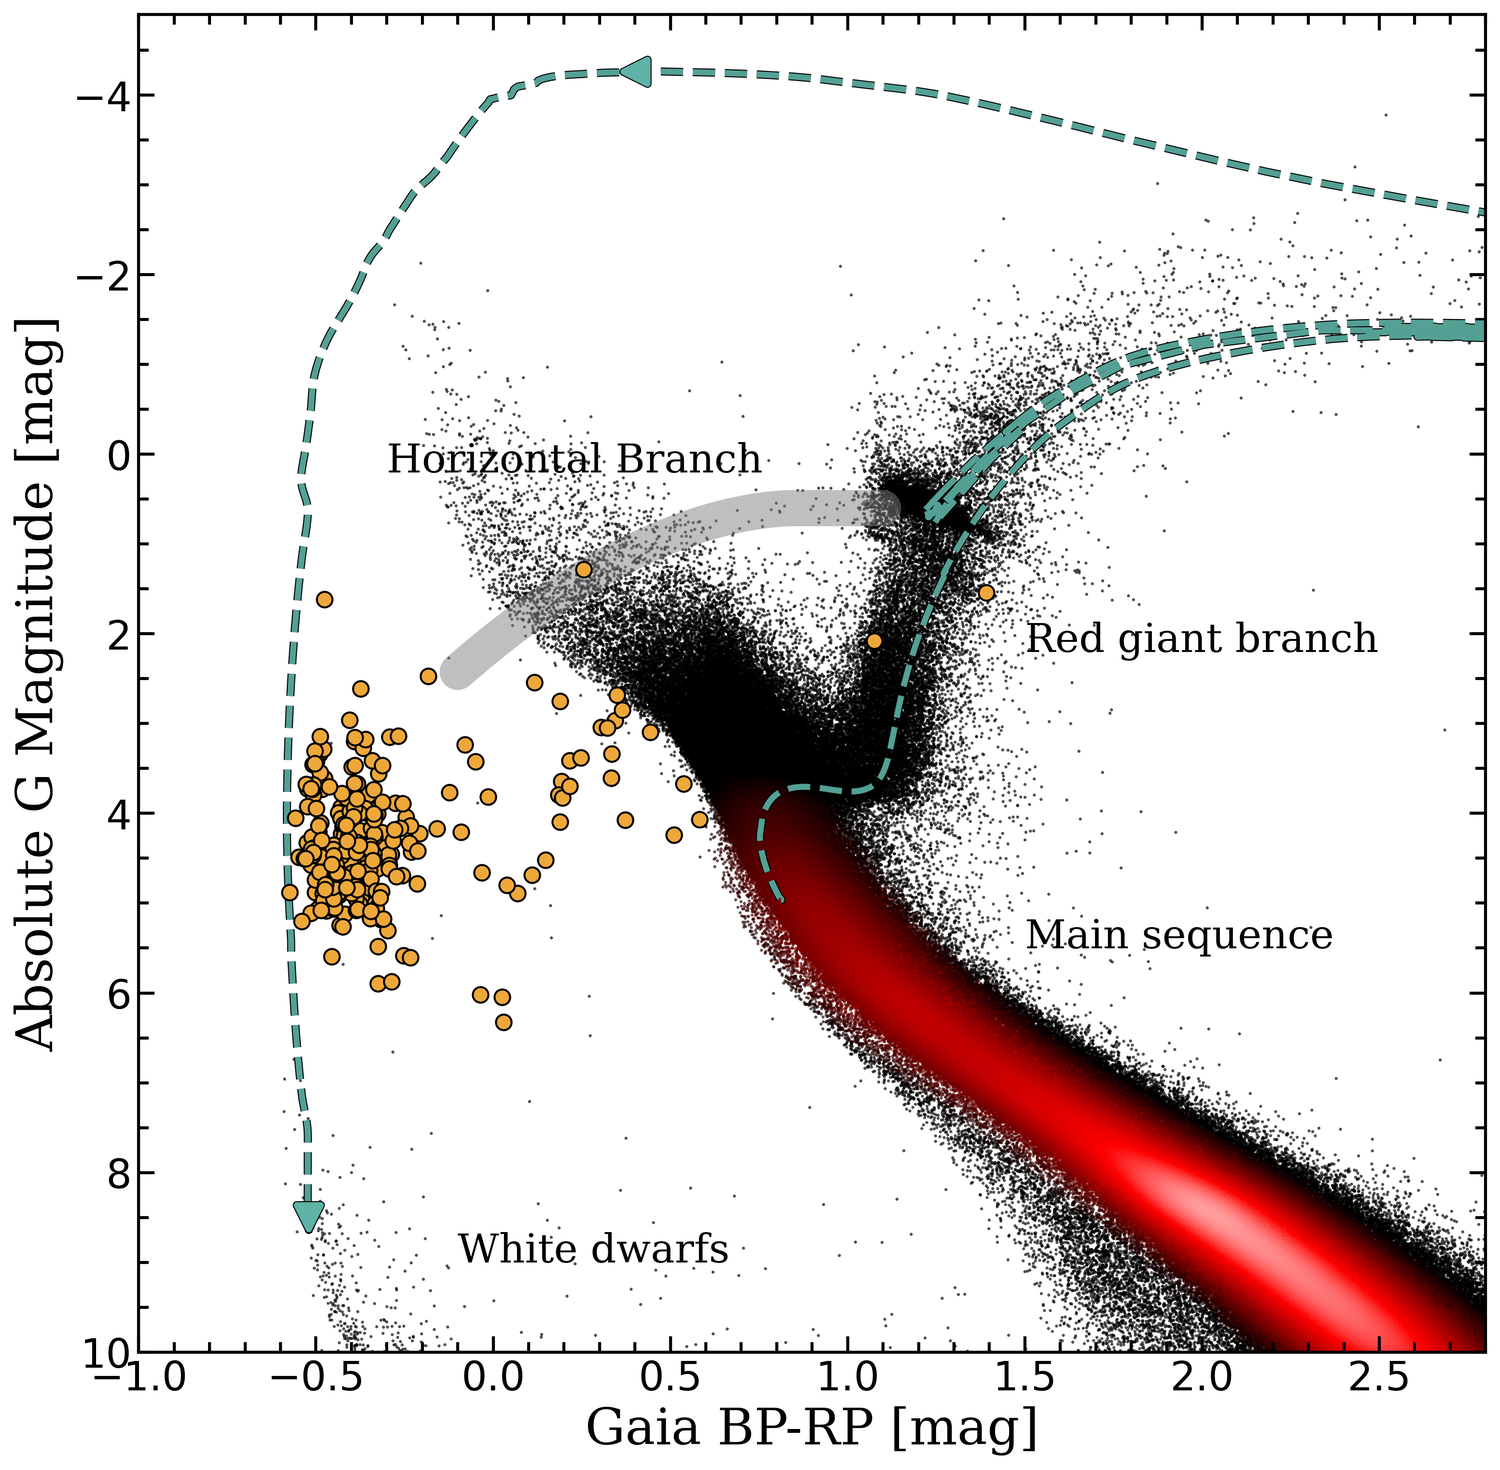
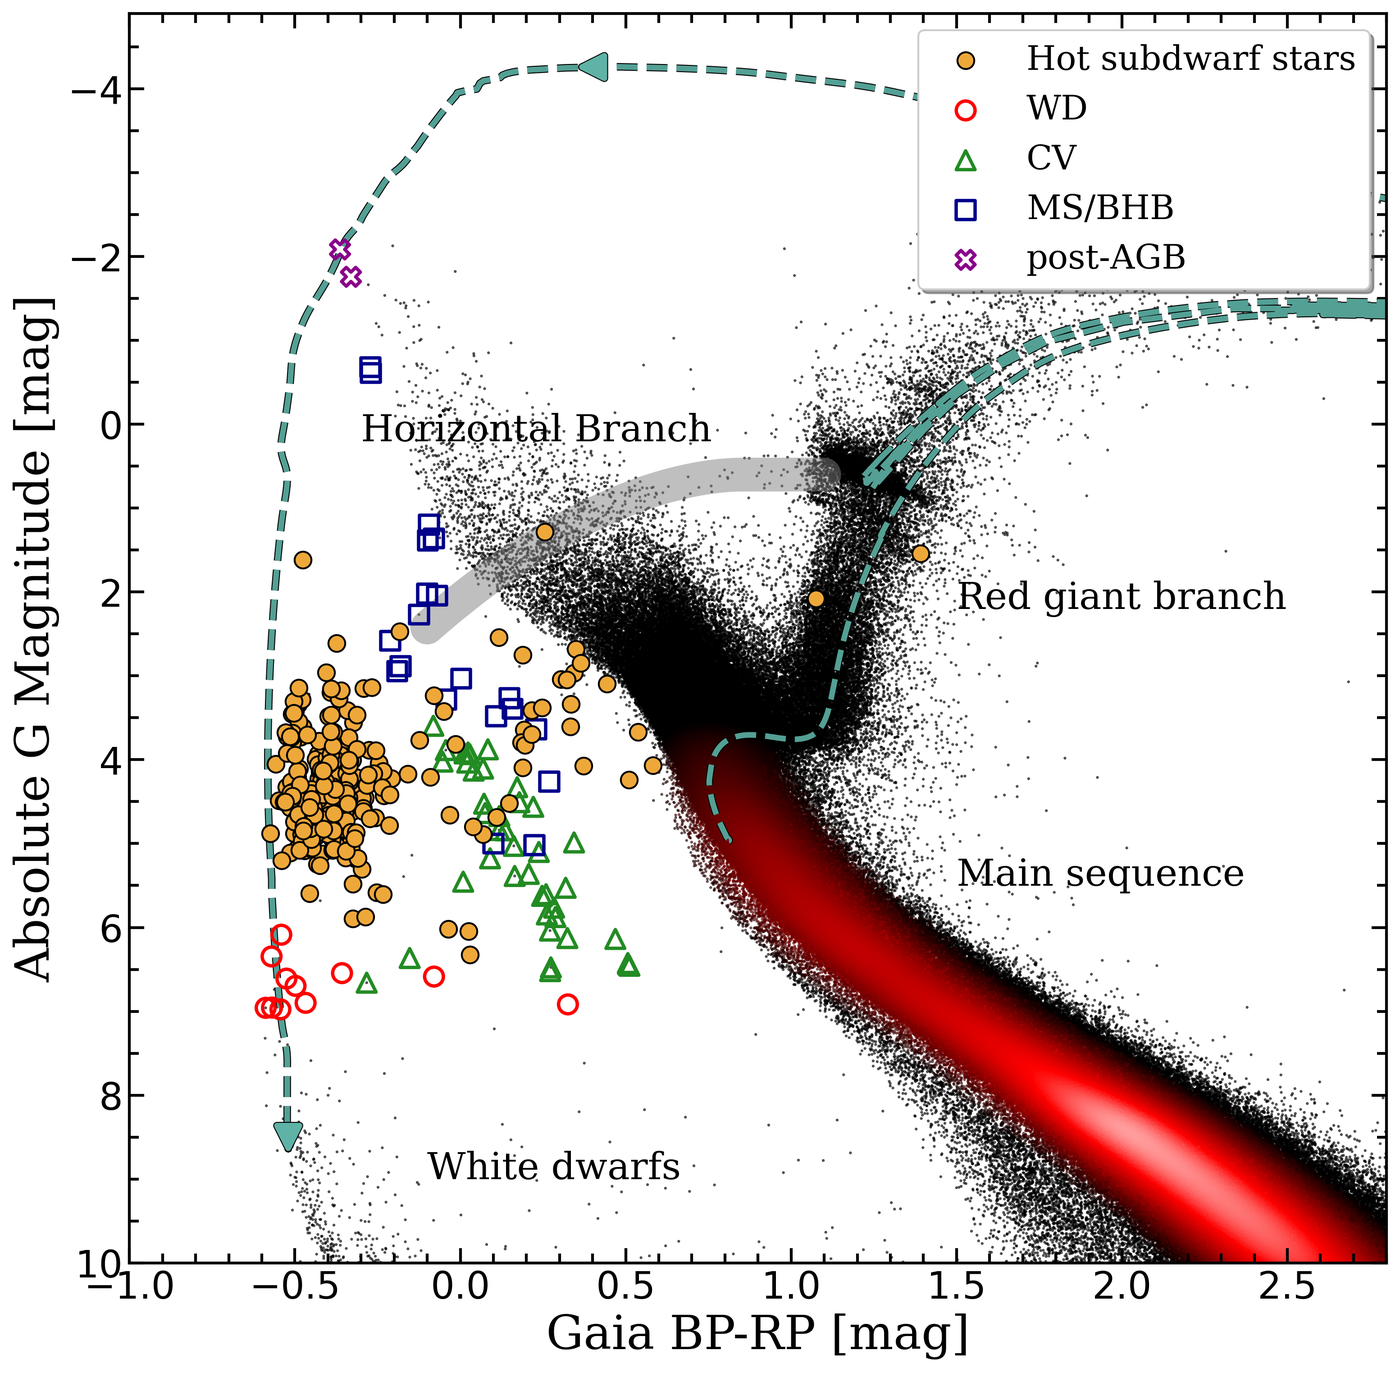
Spectrum rule becomes a real sdB spectrum, newer HRD, contact alignment
- Spectrum thickened to 7px and rebuilt as 27 absorption lines that fade in
  and out at their true wavelengths: Balmer broadest, then He I, He II, metals
- Rebuilt web HRD from the updated Gaia_HRD.png placed in the site directory
- Contact and teaching rows now share a font and line box so labels and values
  align on the same baseline
- Removed the Vilnius reference from contact and About me

diff --git a/style.css b/style.css
@@ -183,24 +183,42 @@ a:hover { color: var(--sdb-lift); }
   transform: translateX(-50%);
 }
 
-/* continuum + absorption lines, drawn entirely in CSS */
+/* continuum plus absorption lines of a hot subdwarf, drawn entirely in CSS.
+   Wavelength 3900-7000 A maps linearly to 0-100% width. Balmer lines are the
+   widest because they are pressure broadened at log g around 5.5, then He I,
+   He II, and sharp metal lines. */
 .spectrum {
-  height: 3px;
+  height: 7px;
   background-image:
-    repeating-linear-gradient(90deg,
-      rgba(10, 14, 22, 0.55) 0 1px,
-      transparent 1px 23px),
-    repeating-linear-gradient(90deg,
-      rgba(10, 14, 22, 0.3) 0 1px,
-      transparent 1px 7px),
-    linear-gradient(90deg,
-      var(--sdb) 0%,
-      var(--sdb-lift) 22%,
-      #9fb6e8 44%,
-      #e8e2d2 60%,
-      #e0a858 80%,
-      var(--companion) 100%);
-  opacity: 0.9;
+    radial-gradient(ellipse 1.097% 100% at 85.897% 50%, rgba(12,16,26,0.62) 0%, rgba(12,16,26,0.260) 45%, rgba(12,16,26,0) 100%),
+    radial-gradient(ellipse 1.097% 100% at 31.010% 50%, rgba(12,16,26,0.7) 0%, rgba(12,16,26,0.294) 45%, rgba(12,16,26,0) 100%),
+    radial-gradient(ellipse 1.097% 100% at 14.210% 50%, rgba(12,16,26,0.72) 0%, rgba(12,16,26,0.302) 45%, rgba(12,16,26,0) 100%),
+    radial-gradient(ellipse 1.097% 100% at 6.506% 50%, rgba(12,16,26,0.7) 0%, rgba(12,16,26,0.294) 45%, rgba(12,16,26,0) 100%),
+    radial-gradient(ellipse 1.097% 100% at 2.261% 50%, rgba(12,16,26,0.62) 0%, rgba(12,16,26,0.260) 45%, rgba(12,16,26,0) 100%),
+    radial-gradient(ellipse 0.387% 100% at 18.435% 50%, rgba(12,16,26,0.34) 0%, rgba(12,16,26,0.143) 45%, rgba(12,16,26,0) 100%),
+    radial-gradient(ellipse 0.387% 100% at 15.739% 50%, rgba(12,16,26,0.34) 0%, rgba(12,16,26,0.143) 45%, rgba(12,16,26,0) 100%),
+    radial-gradient(ellipse 0.387% 100% at 4.071% 50%, rgba(12,16,26,0.34) 0%, rgba(12,16,26,0.143) 45%, rgba(12,16,26,0) 100%),
+    radial-gradient(ellipse 0.387% 100% at 32.965% 50%, rgba(12,16,26,0.34) 0%, rgba(12,16,26,0.143) 45%, rgba(12,16,26,0) 100%),
+    radial-gradient(ellipse 0.387% 100% at 35.990% 50%, rgba(12,16,26,0.34) 0%, rgba(12,16,26,0.143) 45%, rgba(12,16,26,0) 100%),
+    radial-gradient(ellipse 0.387% 100% at 63.729% 50%, rgba(12,16,26,0.34) 0%, rgba(12,16,26,0.143) 45%, rgba(12,16,26,0) 100%),
+    radial-gradient(ellipse 0.387% 100% at 89.619% 50%, rgba(12,16,26,0.34) 0%, rgba(12,16,26,0.143) 45%, rgba(12,16,26,0) 100%),
+    radial-gradient(ellipse 0.387% 100% at 7.865% 50%, rgba(12,16,26,0.34) 0%, rgba(12,16,26,0.143) 45%, rgba(12,16,26,0) 100%),
+    radial-gradient(ellipse 0.387% 100% at 26.229% 50%, rgba(12,16,26,0.34) 0%, rgba(12,16,26,0.143) 45%, rgba(12,16,26,0) 100%),
+    radial-gradient(ellipse 0.323% 100% at 25.345% 50%, rgba(12,16,26,0.28) 0%, rgba(12,16,26,0.118) 45%, rgba(12,16,26,0) 100%),
+    radial-gradient(ellipse 0.323% 100% at 48.758% 50%, rgba(12,16,26,0.28) 0%, rgba(12,16,26,0.118) 45%, rgba(12,16,26,0) 100%),
+    radial-gradient(ellipse 0.323% 100% at 20.697% 50%, rgba(12,16,26,0.28) 0%, rgba(12,16,26,0.118) 45%, rgba(12,16,26,0) 100%),
+    radial-gradient(ellipse 0.161% 100% at 18.748% 50%, rgba(12,16,26,0.2) 0%, rgba(12,16,26,0.084) 45%, rgba(12,16,26,0) 100%),
+    radial-gradient(ellipse 0.161% 100% at 21.052% 50%, rgba(12,16,26,0.2) 0%, rgba(12,16,26,0.084) 45%, rgba(12,16,26,0) 100%),
+    radial-gradient(ellipse 0.161% 100% at 7.358% 50%, rgba(12,16,26,0.2) 0%, rgba(12,16,26,0.084) 45%, rgba(12,16,26,0) 100%),
+    radial-gradient(ellipse 0.161% 100% at 11.848% 50%, rgba(12,16,26,0.2) 0%, rgba(12,16,26,0.084) 45%, rgba(12,16,26,0) 100%),
+    radial-gradient(ellipse 0.161% 100% at 6.365% 50%, rgba(12,16,26,0.2) 0%, rgba(12,16,26,0.084) 45%, rgba(12,16,26,0) 100%),
+    radial-gradient(ellipse 0.161% 100% at 24.110% 50%, rgba(12,16,26,0.2) 0%, rgba(12,16,26,0.084) 45%, rgba(12,16,26,0) 100%),
+    radial-gradient(ellipse 0.161% 100% at 40.935% 50%, rgba(12,16,26,0.2) 0%, rgba(12,16,26,0.084) 45%, rgba(12,16,26,0) 100%),
+    radial-gradient(ellipse 0.161% 100% at 10.748% 50%, rgba(12,16,26,0.2) 0%, rgba(12,16,26,0.084) 45%, rgba(12,16,26,0) 100%),
+    radial-gradient(ellipse 0.161% 100% at 78.939% 50%, rgba(12,16,26,0.2) 0%, rgba(12,16,26,0.084) 45%, rgba(12,16,26,0) 100%),
+    radial-gradient(ellipse 0.161% 100% at 36.806% 50%, rgba(12,16,26,0.2) 0%, rgba(12,16,26,0.084) 45%, rgba(12,16,26,0) 100%),
+    linear-gradient(90deg, #11307f 0%, #1f44a6 14%, #3a63c4 30%, #7497dc 46%, #b9c6de 60%, #ddd0b0 72%, #d8a861 85%, #c07617 100%);
+  opacity: 0.95;
 }
 
 /* ---------- hero ---------- */
@@ -454,14 +472,19 @@ a:hover { color: var(--sdb-lift); }
   border-bottom: 1px solid var(--rule);
 }
 .row:first-child { border-top: 1px solid var(--rule); }
-.row__when {
-  font-family: var(--mono);
-  font-size: 0.8125rem;
-  color: var(--ink-faint);
-  padding-top: 0.1rem;
+
+/* label and value share a font and line box so their first baselines line up.
+   No padding nudge: that is what threw the columns out of alignment. */
+.row__when,
+.row__what,
+.row__where {
+  font-size: 0.9375rem;
+  line-height: 1.6;
+  margin: 0;
 }
-.row__what { font-weight: 600; margin: 0 0 0.15rem; font-size: 0.9375rem; }
-.row__where { margin: 0; color: var(--ink-soft); font-size: 0.9375rem; }
+.row__when { color: var(--ink-faint); }
+.row__what { font-weight: 600; margin-bottom: 0.15rem; }
+.row__where { color: var(--ink-soft); }
 
 /* inline stat strip */
 .stats {

diff --git a/index.html b/index.html
@@ -62,8 +62,7 @@
         <p class="hero__standfirst rise">
           I studied physics and mechanical engineering at the University of Western
           Australia, then completed a master's degree and a doctorate in astrophysics at
-          the University of Potsdam. From February 2027 I will join Vilnius University in
-          Lithuania as a postdoctoral researcher.
+          the University of Potsdam.
         </p>
         <p class="hero__standfirst rise">
           My research interests include hot subdwarfs, white dwarfs, binary star evolution,

diff --git a/contact.html b/contact.html
@@ -64,11 +64,6 @@
         </div>
 
         <div class="row">
-          <p class="row__when">From 02/2027</p>
-          <p class="row__where"><a href="https://www.vu.lt/en">Vilnius University, Lithuania</a></p>
-        </div>
-
-        <div class="row">
           <p class="row__when">Publications</p>
           <p class="row__where"><a href="https://ui.adsabs.harvard.edu/public-libraries/7NzicZAxSs22jv9Sv9Si5w">ADS library</a></p>
         </div>
